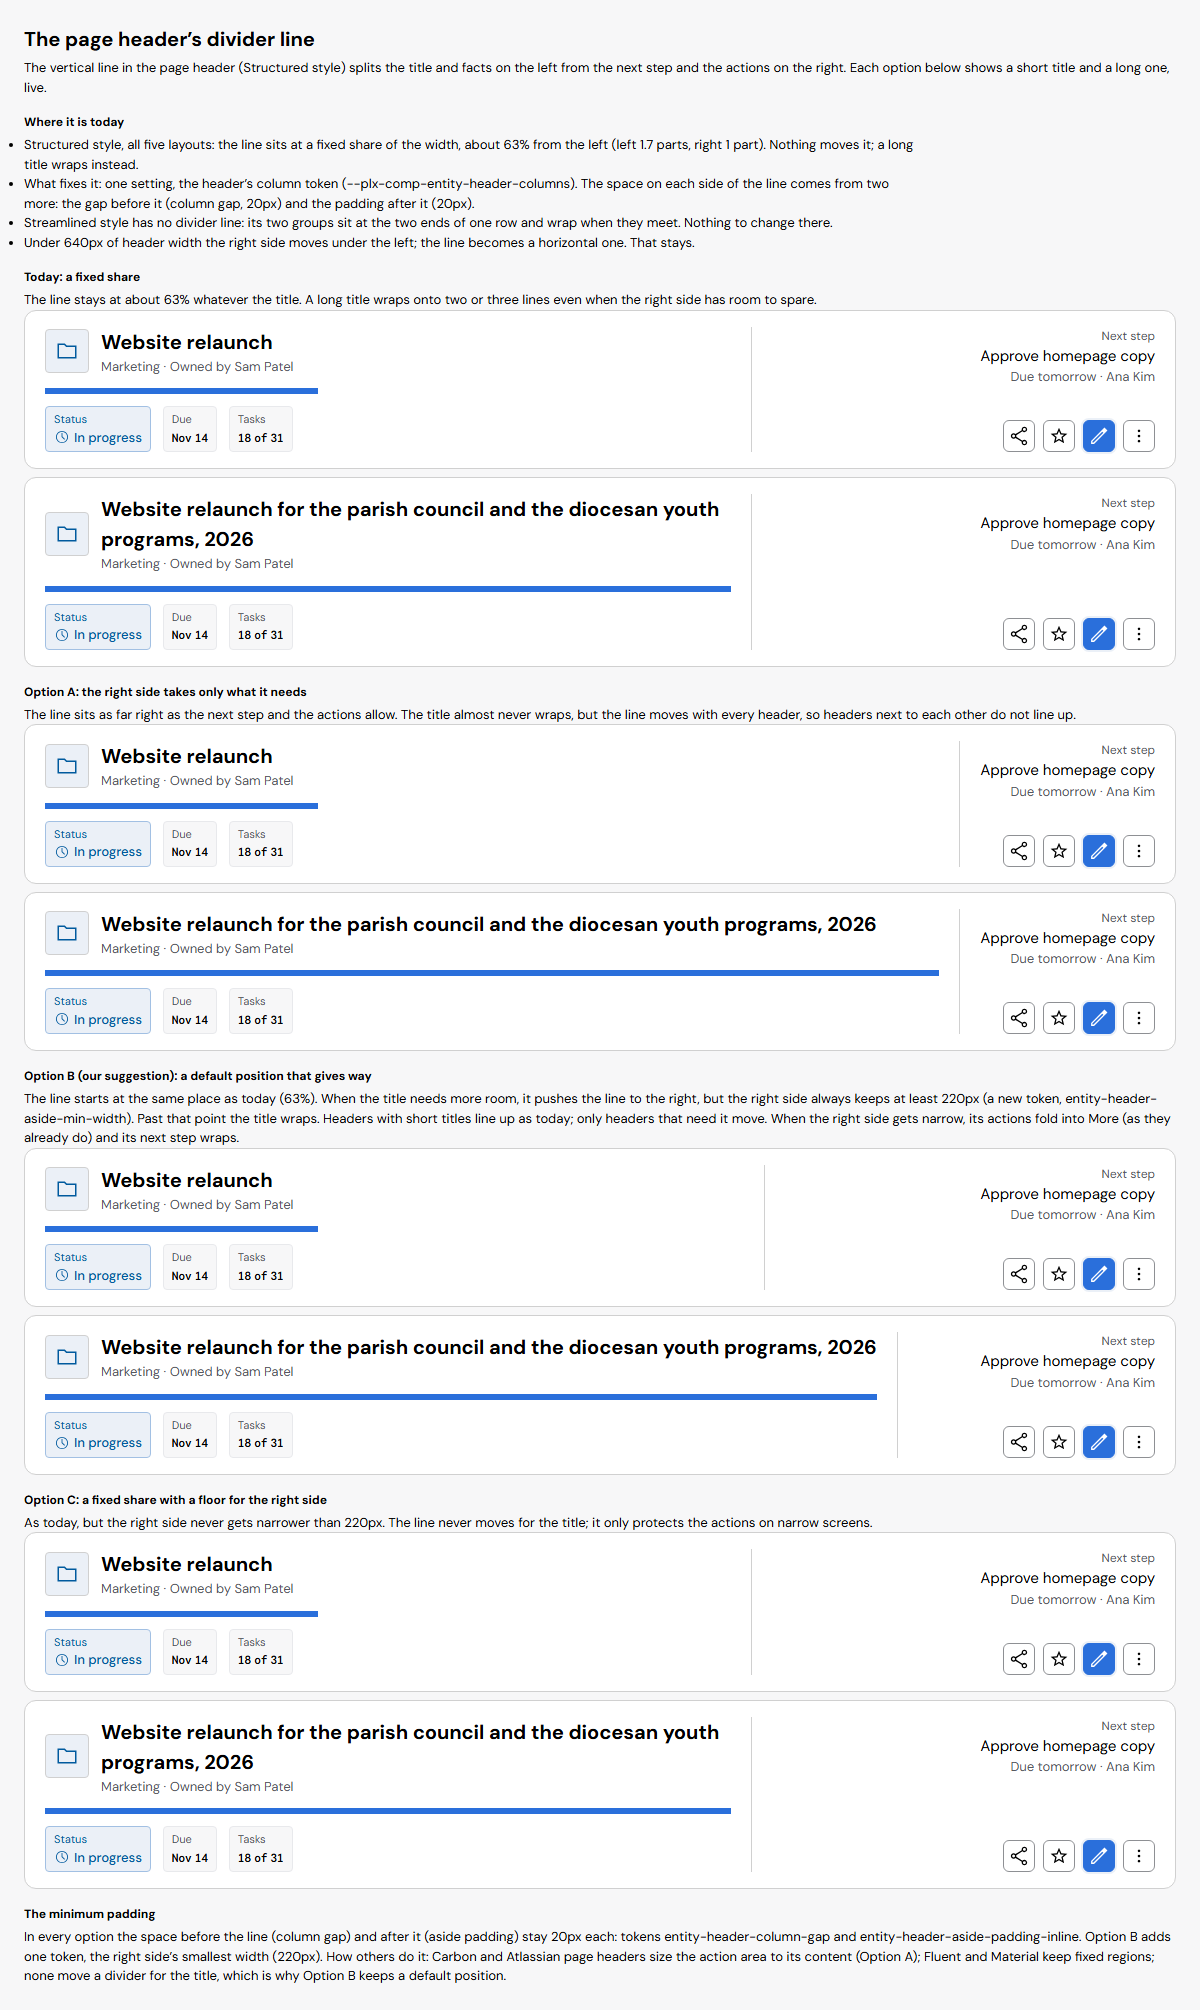
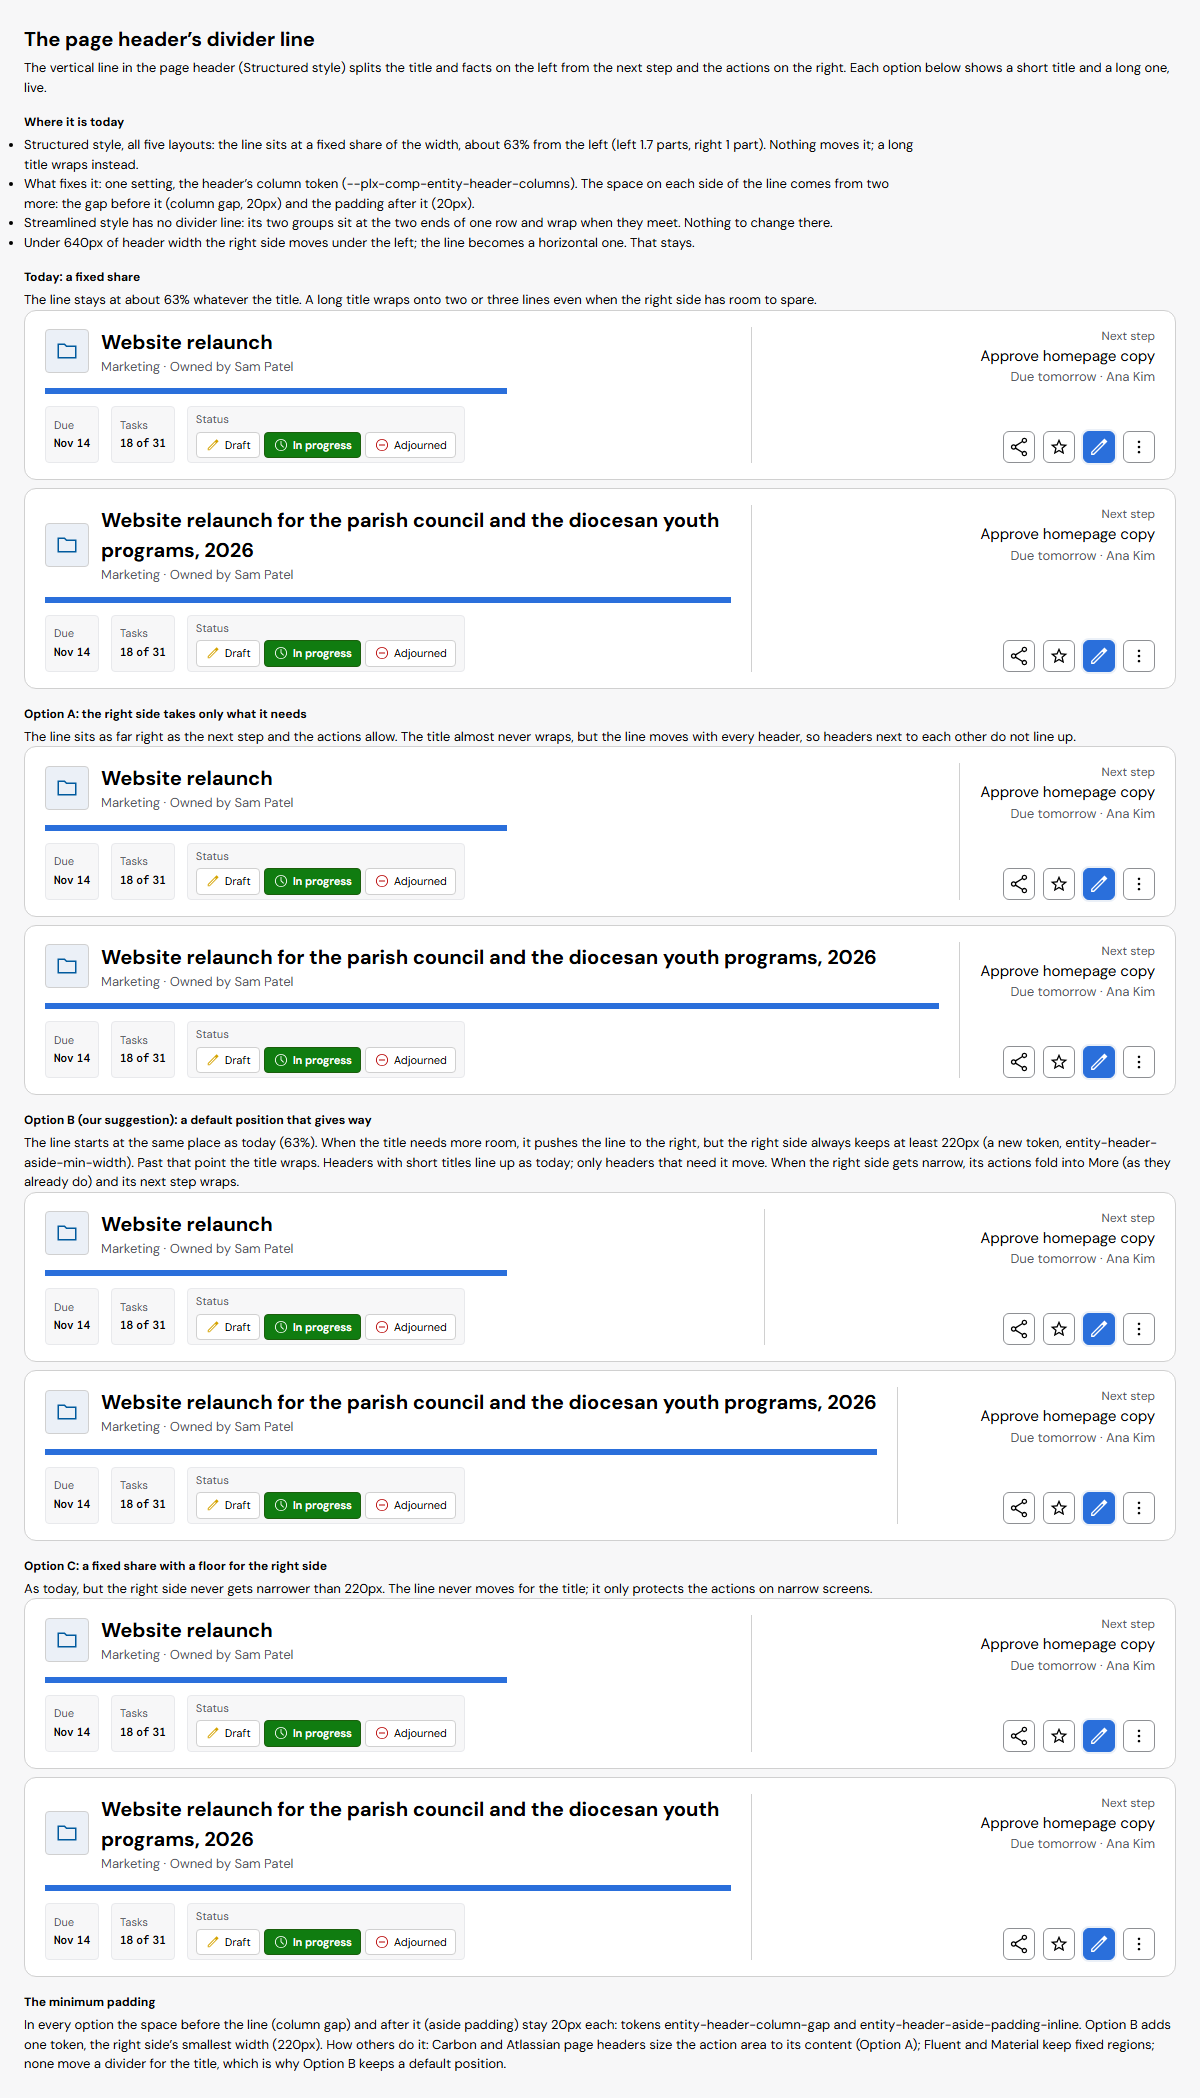
Header divider study: the status box in every example (#297, #300)

diff --git a/docs/briefs/header-divider/index.html b/docs/briefs/header-divider/index.html
@@ -28,9 +28,10 @@ p,li{font-size:var(--plx-sys-text-body-font-size);max-inline-size:var(--plx-ref-
 <script>
 (function () {
   var P = window.Plenix, R = window.React, h = R.createElement;
+  var states = { value: 'in-progress', onChange: function () {}, options: [{ value: 'draft', label: 'Draft', icon: 'pencil', tone: 'waiting' }, { value: 'in-progress', label: 'In progress', icon: 'clock', tone: 'success' }, { value: 'adjourned', label: 'Adjourned', icon: 'do-not-disturb', tone: 'negative' }] };
   var hdr = function (title) {
     return h(P.EntityHeader, { headingLevel: 3, title: title, subtitle: 'Marketing · Owned by Sam Patel', media: { icon: 'folder', hue: 'blue' },
-      status: { tone: 'active', icon: 'clock', label: 'In progress' }, facts: [{ label: 'Due', value: 'Nov 14', data: true }, { label: 'Tasks', value: '18 of 31', data: true }],
+      states: states, facts: [{ label: 'Due', value: 'Nov 14', data: true }, { label: 'Tasks', value: '18 of 31', data: true }],
       next: { title: 'Approve homepage copy', detail: 'Due tomorrow · Ana Kim' }, actions: [{ icon: 'share', label: 'Share' }, { icon: 'star', label: 'Favorite' }, { icon: 'edit', label: 'Edit', primary: true }] });
   };
   var SHORT = 'Website relaunch', LONG = 'Website relaunch for the parish council and the diocesan youth programs, 2026';
